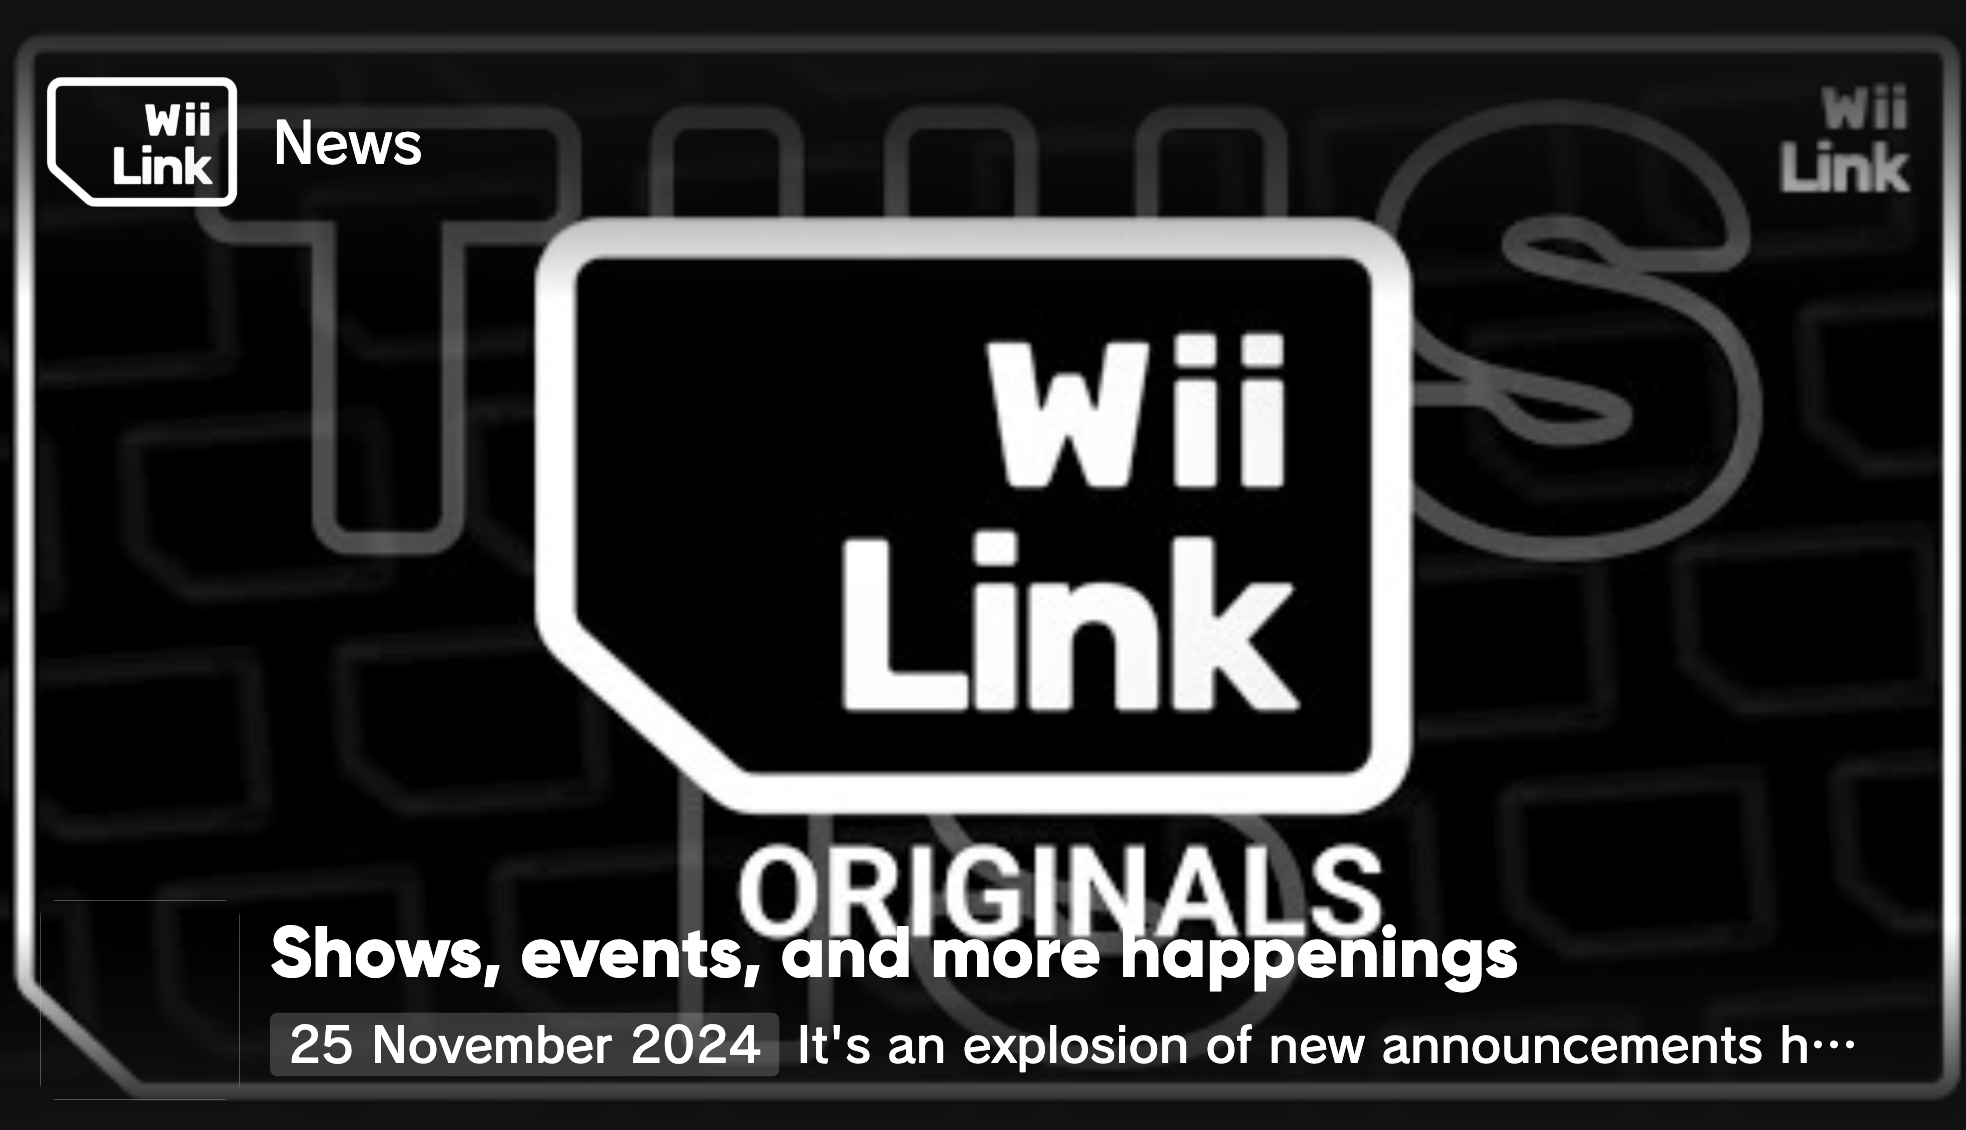
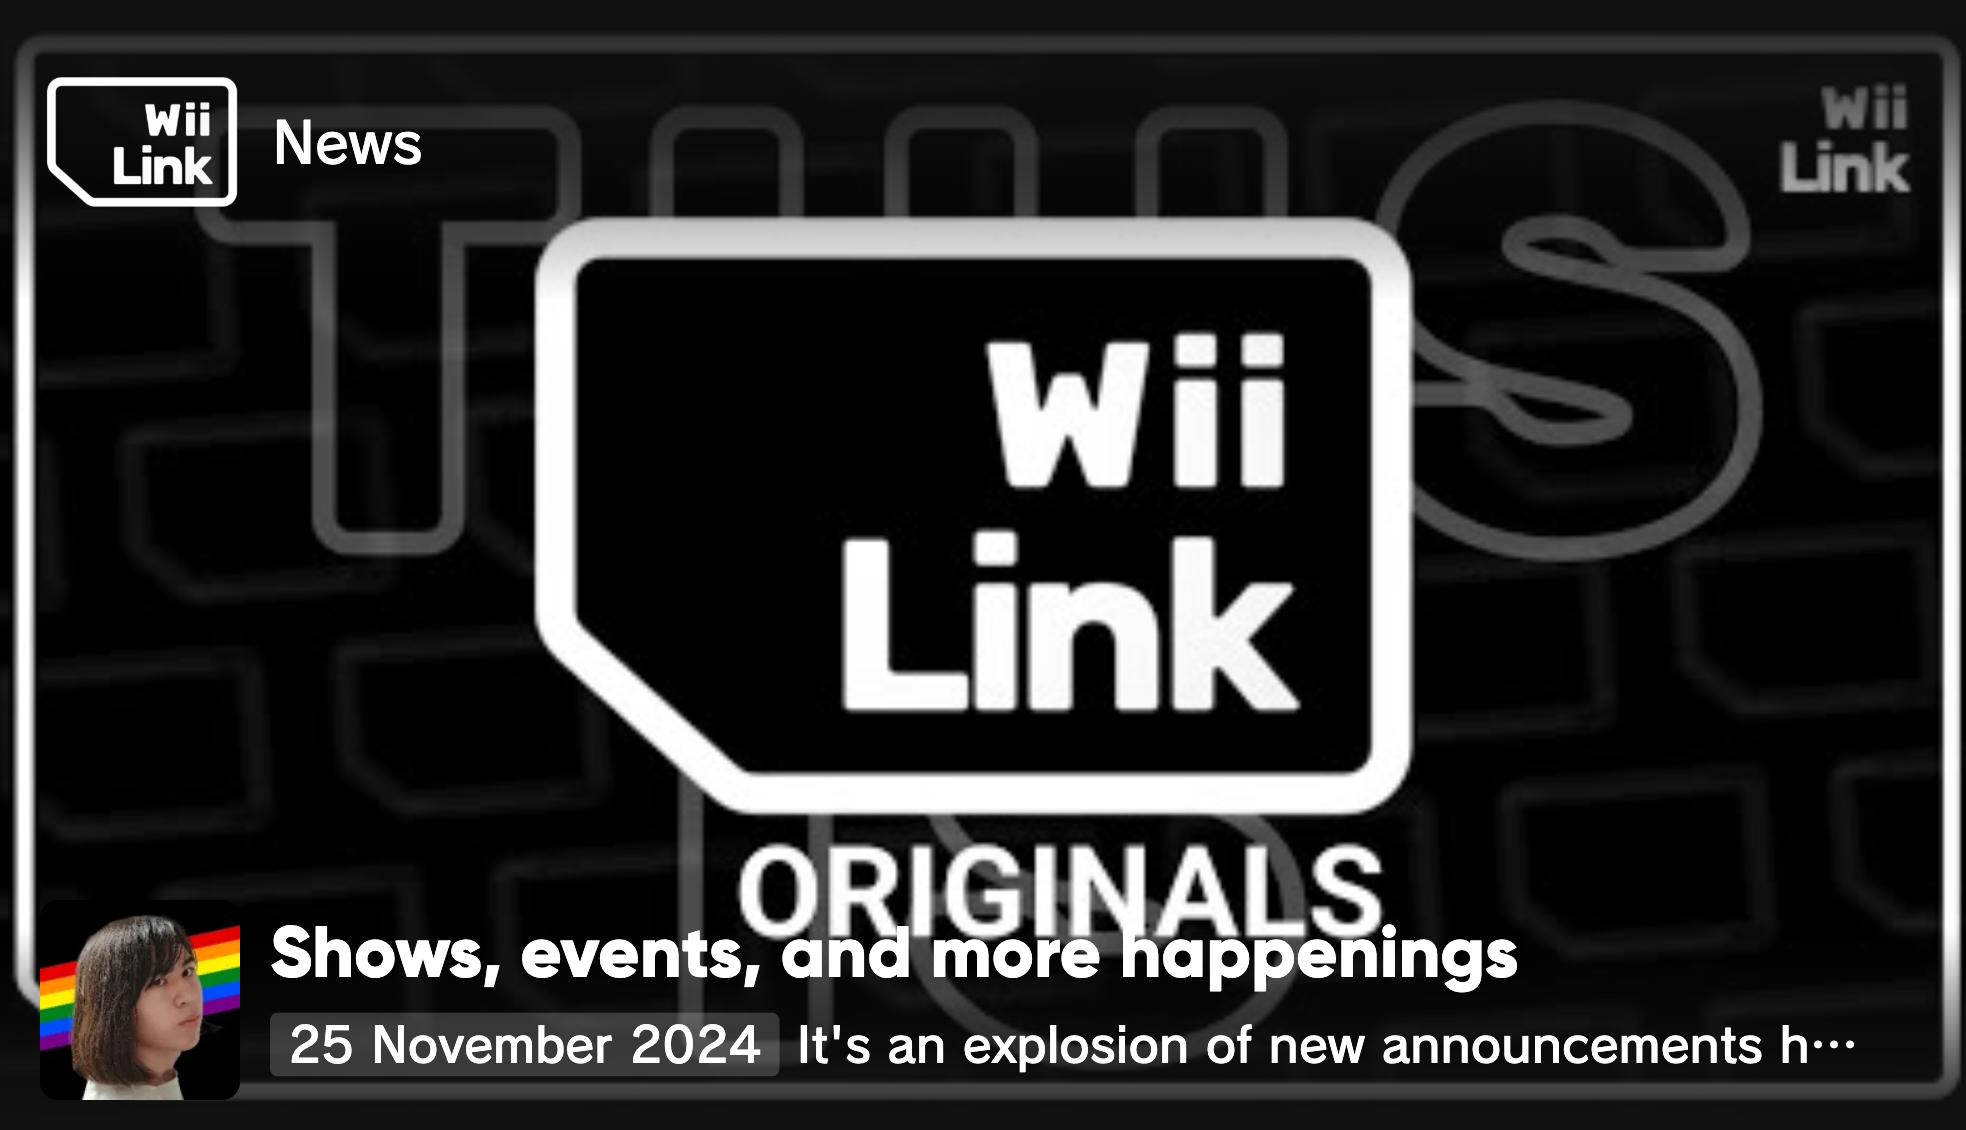
Updated og-images fix.

Changed region(s): [[0.0, 0.8053, 0.1241, 0.9912]]

diff --git a/src/content/blog/2023-09-24-issue-18.md b/src/content/blog/2023-09-24-issue-18.md
@@ -4,7 +4,7 @@ pubDate: 2023-09-24T00:00:00.000Z
 description: >-
   Hey Guys & Gals alike reading this, i'm Nova and i'm here to talk about the
   News on what's happened for WiiLink in the past few months!
-heroImage: ../../img/news_post_welcome_back.webp
+heroImage: /img/news_post_welcome_back.webp
 author: NecroNova
 authImage: 'https://i.imgur.com/eNhJ6hc.jpg'
 authDesc: >-

diff --git a/src/content/blog/2024-11-25-issue-23.md b/src/content/blog/2024-11-25-issue-23.md
@@ -1,7 +1,7 @@
 ---
 title: 'Shows, events, and more happenings'
 author: Jess Williamson
-authImage: /img/jess.webp
+authImage: 'https://wiilink.ca/img/jess.webp'
 authDesc: >-
   They/She | Japanese | Possibly the worst hire by WiiLink, that nobody can get
   rid of.

diff --git a/src/content/blog/2024-12-21-issue-24.md b/src/content/blog/2024-12-21-issue-24.md
@@ -1,7 +1,7 @@
 ---
 title: The WiiLink Month 2024 Edition
 author: Jess Williamson
-authImage: /img/jess.webp
+authImage: 'https://wiilink.ca/img/jess.webp'
 authDesc: >-
   They/She | Japanese | Possibly the worst hire by WiiLink, that nobody can get
   rid of.

diff --git a/src/content/blog/2024-08-04-issue-22.md b/src/content/blog/2024-08-04-issue-22.md
@@ -1,7 +1,7 @@
 ---
 title: A new boatload of news!
 author: Jess Williamson
-authImage: /img/jess.webp
+authImage: 'https://wiilink.ca/img/jess.webp'
 authDesc: >-
   They/She | Japanese | Possibly the worst hire by WiiLink, that nobody can get
   rid of.
